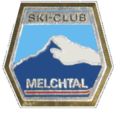
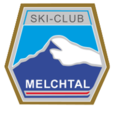
Weitere kleine Updates der Bilder und Ergänzung der Links.

diff --git a/sc-melchtal-web/src/app/home/home.component.html b/sc-melchtal-web/src/app/home/home.component.html
@@ -11,8 +11,8 @@
     <div *ngFor="let newsItem of news$ | async" id="home_news">
       <div class="card">
         <div class="card-header">
-          <h3 class="text-left" style="display: inline-block">{{newsItem.title}}</h3>
-          <div class="float-md-right float-sm-left">Datum: {{newsItem.created | date : 'shortDate'}}</div>
+          <h3 class="d-lg-inline-block">{{newsItem.title}}</h3>
+          <div class="float-lg-right">Veröffentlicht: {{newsItem.created | date : 'shortDate'}}</div>
         </div>
         <div class="card-body">
           <p [innerHTML]="newsItem.text"></p>
@@ -30,7 +30,7 @@
 <div class="row justify-content-md-center">
   <div class="col-md-6">
       <div class="card">
-        <div class="card-header">Die nächsten Anlässe</div>
+        <div class="card-header" (click)="routeTo('/programm')">Die nächsten Anlässe <span><mat-icon class="float-right">launch</mat-icon></span></div>
         <ul class="list-group">
           <li *ngFor="let event of ereignisse" class="list-group-item">
             {{event.dateFrom | date : 'fullDate'}} <span *ngIf="event.dateTo"> - {{event.dateTo | date : 'fullDate'}}</span>
@@ -47,8 +47,8 @@
   <div class="col-md-6">
 
     <div class="card">
-      <div class="card-header">
-        Fotogalerie
+      <div class="card-header" (click)="routeTo('/gallerie')">
+        Fotogalerie <span><mat-icon class="float-right">launch</mat-icon></span>
       </div>
       <div class="card-body">
         <div class="card-text">
@@ -59,8 +59,8 @@
     </div>
 
     <div class="card">
-      <div class="card-header">
-        Der Vorstand
+      <div class="card-header" (click)="routeTo('/vorstand')">
+        Der Vorstand <span><mat-icon class="float-right">launch</mat-icon></span>
       </div>
       <div class="card-body">
         <div class="card-text">
@@ -71,8 +71,8 @@
     </div>
 
     <div class="card">
-      <div class="card-header">
-        Oberwend
+      <div class="card-header" (click)="routeTo('/oberwend')">
+        Oberwend <span><mat-icon class="float-right">launch</mat-icon></span>
       </div>
       <div class="card-body">
         <div class="card-text">
@@ -83,8 +83,8 @@
     </div>
 
     <div class="card">
-      <div class="card-header">
-        Mitteilungen
+      <div class="card-header" (click)="routeTo('/kontakt')">
+        Mitteilungen <span><mat-icon class="float-right">launch</mat-icon></span>
       </div>
       <div class="card-body">
         <div class="card-text">

diff --git a/sc-melchtal-web/src/app/app.component.html b/sc-melchtal-web/src/app/app.component.html
@@ -1,9 +1,11 @@
 <div class="container" style="background-color: ghostwhite">
   <div class="cotainer">
     <nav class="navbar navbar-expand-lg navbar-dark rounded-top">
-      <!--a class="navbar-brand" [routerLink]="['/home']" (click)="navbarCollapsed = true"><img src="assets/logo-30.png" width="30" height="30" alt="" /></a-->
-      <h1 class="text-center">Skiclub Melchtal</h1>
-      <button class="navbar-toggler" type="button" (click)="navbarCollapsed = !navbarCollapsed" [attr.aria-expanded]="!navbarCollapsed" aria-controls="navbarContent" aria-expanded="false" aria-label="Toggle Navigation">
+      <a class="navbar-brand" [routerLink]="['/home']" (click)="navbarCollapsed = true"><img src="assets/logo-60-th.png" alt="" /></a>
+      <h1 class="d-none d-md-block text-center">Ski- und Wanderclub Melchtal</h1>
+      <h1 class="d-none d-sm-block d-md-none text-center">Skiclub Melchtal</h1>
+      <h1 class="d-block d-sm-none text-center">SC-Melchtal</h1>
+      <button class="navbar-toggler " type="button" (click)="navbarCollapsed = !navbarCollapsed" [attr.aria-expanded]="!navbarCollapsed" aria-controls="navbarContent" aria-expanded="false" aria-label="Toggle Navigation">
         <span class="navbar-toggler-icon"></span>
       </button>
 
@@ -41,24 +43,12 @@
       </div>
     </nav>
   </div>
-  <img class="img-fluid rounded-bottom" src="assets/scm-panorama-1200.jpg"/>
-
-
-  <!--div class="row" id="titlegraph">
-    <img src="assets-static-img/scm_ptitle1.png" width="215" height="215" alt=""/>
-  </div-->
-
-  <!--div class="row justify-content-md-center" id="top">
-    <div class="col-md-auto">
-      <h1 id="topscmtext">
-        Ski- und Wanderclub Melchtal
-      </h1>
-    </div>
-  </div-->
+  <img class="img-fluid rounded-bottom d-none d-sm-block" src="assets/{{imageHeaderUrlBig}}"/>
+  <img class="img-fluid rounded-bottom d-sm-none mx-auto" src="assets/{{imageHeaderUrlSmall}}"/>
   <router-outlet></router-outlet>
   <div class="row justify-content-md-center">
     <div class="col-md-auto align-content-md-center">
-      <img id="footer-img" class="mx-auto d-block" src="assets/logo-200.png" alt=""/>
+      <img id="footer-img" class="mx-auto d-block" src="assets/logo-200-th.png" alt=""/>
     </div>
   </div>
 

diff --git a/sc-melchtal-web/src/app/home/home.component.ts b/sc-melchtal-web/src/app/home/home.component.ts
@@ -7,6 +7,7 @@ import * as fromStore from '../store/reducers/index';
 import * as ProgrammActions from '../store/actions/programm.actions';
 import * as NewsActions from '../store/actions/news.action';
 import {from, Observable} from 'rxjs';
+import {Router} from '@angular/router';
 
 @Component({
   selector: 'app-home',
@@ -21,14 +22,15 @@ export class HomeComponent implements OnInit {
   news$: Observable<News[]>;
 
   constructor(
-    private store: Store<fromStore.State>
+    private store: Store<fromStore.State>,
+    private router: Router
   ) {}
 
   ngOnInit() {
+    this.store.dispatch(new NewsActions.LoadNews());
+    this.news$ = this.store.select(fromStore.getNews);
     this.store.dispatch(new ProgrammActions.LoadProgramm());
     this.store.select(fromStore.getProgramm).subscribe(programm => this.ereignisse = programm.ereignisseInZukunft());
-    this.news$ = this.store.select(fromStore.getNews);
-    this.store.dispatch(new NewsActions.LoadNews());
 
     this.galleryOptions = [
       {
@@ -68,5 +70,9 @@ export class HomeComponent implements OnInit {
         big: 'assets-static-img/stirnband/farb-beispiel-türkisblau.jpeg'
       },
     ];
+  }
+
+  routeTo(target: string) {
+    this.router.navigate([target]);
   }
 }

diff --git a/sc-melchtal-web/src/app/links/links.component.html b/sc-melchtal-web/src/app/links/links.component.html
@@ -49,10 +49,16 @@
           <strong>Skigebiete, Tourismus</strong></td>
       </tr>
       <tr valign="top">
-        <td><a href="http://www.melchsee-frutt.com/" onclick="window.open(this.href); return false;"
+        <td><a href="https://www.melchsee-frutt.ch/" onclick="window.open(this.href); return false;"
+               title="Link in neuem Fenster">www.melchsee-frutt.ch</a></td>
+        <td>&nbsp; &nbsp; &nbsp;</td>
+        <td>Alles über Melchsee-Frutt von offizieller Seite</td>
+      </tr>
+      <tr valign="top">
+        <td><a href="https://www.melchsee-frutt.com/" onclick="window.open(this.href); return false;"
                title="Link in neuem Fenster">www.melchsee-frutt.com</a></td>
         <td>&nbsp; &nbsp; &nbsp;</td>
-        <td>Alles über Melchsee-Frutt</td>
+        <td>Alles über Melchsee-Frutt von einer privaten Initiative</td>
       </tr>
 
     </table>

diff --git a/sc-melchtal-web/src/app/programm/programm.component.html b/sc-melchtal-web/src/app/programm/programm.component.html
@@ -9,8 +9,8 @@
   <div class="col-md-12">
     <div *ngFor="let event of ereignisse" class="card">
       <div class="card-header">
-        <h3 class="float-left">{{event.title}}</h3>
-        <div class="float-md-right float-sm-left">
+        <h3 class="d-lg-inline-block">{{event.title}}</h3>
+        <div class="float-lg-right">
           <span>{{event.dateFrom | date : 'fullDate'}}</span>
           <span *ngIf="event.dateTo"> - {{event.dateTo | date : 'fullDate'}}</span>
         </div>

diff --git a/sc-melchtal-web/src/index.html b/sc-melchtal-web/src/index.html
@@ -37,5 +37,15 @@
 </head>
 <body>
   <app-root></app-root>
+  <script>
+    var $buoop = {required:{e:-4,f:-3,o:-3,s:-1,c:-3},insecure:true,api:2018.10 };
+    function $buo_f(){
+      var e = document.createElement("script");
+      e.src = "//browser-update.org/update.min.js";
+      document.body.appendChild(e);
+    };
+    try {document.addEventListener("DOMContentLoaded", $buo_f,false)}
+    catch(e){window.attachEvent("onload", $buo_f)}
+  </script>
 </body>
 </html>

diff --git a/sc-melchtal-web/src/app/oberwend/oberwend.component.html b/sc-melchtal-web/src/app/oberwend/oberwend.component.html
@@ -9,9 +9,7 @@
 <div class="row justify-content-md-center">
   <div class="col-md-12">
     <div class="card-deck">
-      <div class="card" *ngIf="vorstandsmitglied">
-        <app-vorstandsmitglied [vorstandsmitglied]="vorstandsmitglied"></app-vorstandsmitglied>
-      </div>
+      <app-vorstandsmitglied class="card" *ngIf="vorstandsmitglied" [vorstandsmitglied]="vorstandsmitglied"></app-vorstandsmitglied>
 
       <div class="card">
         <div class="card-header">

diff --git a/sc-melchtal-web/src/app/vorstandsmitglied/vorstandsmitglied.component.html b/sc-melchtal-web/src/app/vorstandsmitglied/vorstandsmitglied.component.html
@@ -14,5 +14,4 @@
     <div class="small" *ngIf="vorstandsmitglied.telefon"><mat-icon>phone</mat-icon><a href="tel:{{vorstandsmitglied.telefon}}">{{vorstandsmitglied.telefon}}</a></div>
     <div class="small" *ngIf="vorstandsmitglied.email"><mat-icon>mail_outline</mat-icon><a href="mailto:{{vorstandsmitglied.email}}">{{vorstandsmitglied.email}}</a></div>
   </div>
-
 </div>

diff --git a/sc-melchtal-web/src/app/programm/programm.component.css b/sc-melchtal-web/src/app/programm/programm.component.css
@@ -1,24 +1,3 @@
-#event_dates {
-  background-color: silver;
-}
-
-#event_from {
-  padding-left: 5px;
-  font-weight: bold;
-}
-
-#event_to span {
-  padding-left: 5px;
-  font-weight: bold;
-}
-
-#event_title {
-  font-weight: bold;
-  color: #000;
-  background-color: #DDD;
-  padding: 2px;
-}
-
 .material-icons {
   vertical-align: middle;
   padding-right: 10px;

diff --git a/sc-melchtal-web/src/app/app.component.ts b/sc-melchtal-web/src/app/app.component.ts
@@ -9,6 +9,8 @@ import {environment} from '../environments/environment';
 })
 export class AppComponent {
   navbarCollapsed = true;
+  imageHeaderUrlBig = 'scm-panorama-1200.jpg';
+  imageHeaderUrlSmall = 'scm-panorama-sm.jpg';
 
   constructor(angulartics2GoogleAnalytics: Angulartics2GoogleAnalytics) {
     if (environment.production) {

diff --git a/sc-melchtal-web/src/styles.css b/sc-melchtal-web/src/styles.css
@@ -28,11 +28,19 @@ body {
 }
 
 .card-header {
-  background: var(--main-bg-color);
+  background: #334A97;
   color: white;
 }
 
 h3 {
   font-size: x-large;
   margin-bottom: 0em;
+}
+
+.navbar-brand {
+  margin-right: 0rem;
+}
+
+.navbar-toggler {
+  padding: 0.25rem;
 }

diff --git a/sc-melchtal-web/src/app/app-routing.module.ts b/sc-melchtal-web/src/app/app-routing.module.ts
@@ -24,7 +24,9 @@ const routes: Routes = [
 ];
 
 @NgModule({
-  imports: [RouterModule.forRoot(routes)],
+  imports: [
+    RouterModule.forRoot(routes, {scrollPositionRestoration: 'enabled'})
+  ],
   exports: [RouterModule]
 })
 export class AppRoutingModule {
